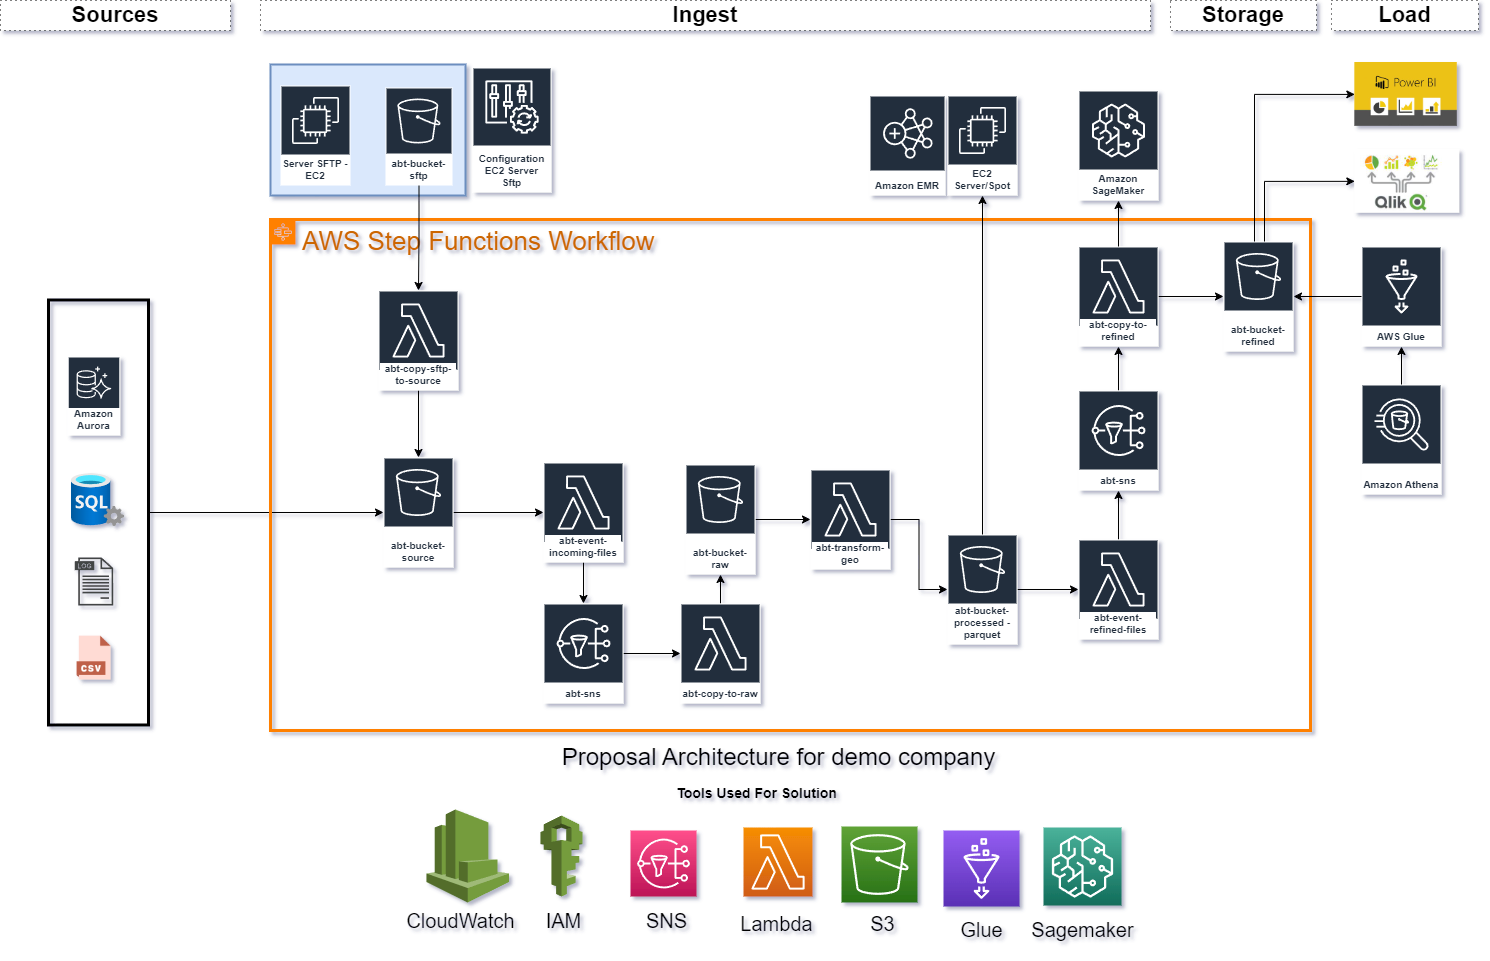
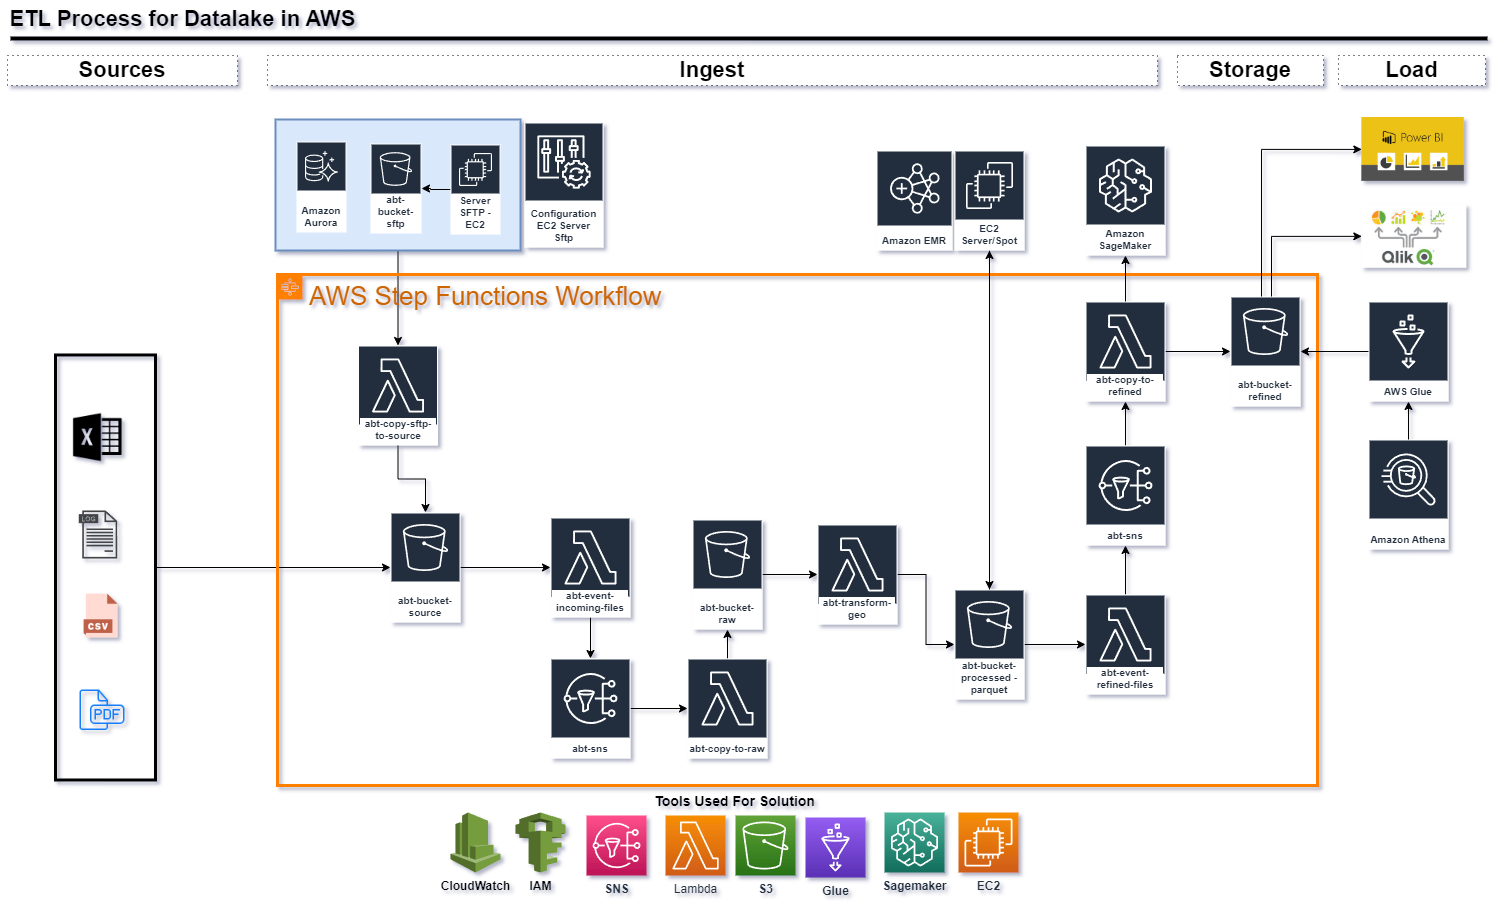
new images

Changed region(s): [[0.0, 0.0, 1.0, 0.9846], [0.0309, 0.3077, 0.1235, 0.8615]]

diff --git a/README.md b/README.md
@@ -3,7 +3,7 @@
 ## Overview
 
 ## Data Arch
-![Example1 dashboard image](Arch_Simple_AWS_Local_Serverless_ARCH_DMS_Aurora.png)
+![Example1 dashboard image](ARCH_DMS_Aurora.png)
 ![Example2 dashboard image](ARCH_1_Demo_External_Data.png)
 ![Example3 dashboard image](ARCH_2_Local.png)
 ![Example4 dashboard image](ARCH_3_Serverless_Deploy_Functions.png)
